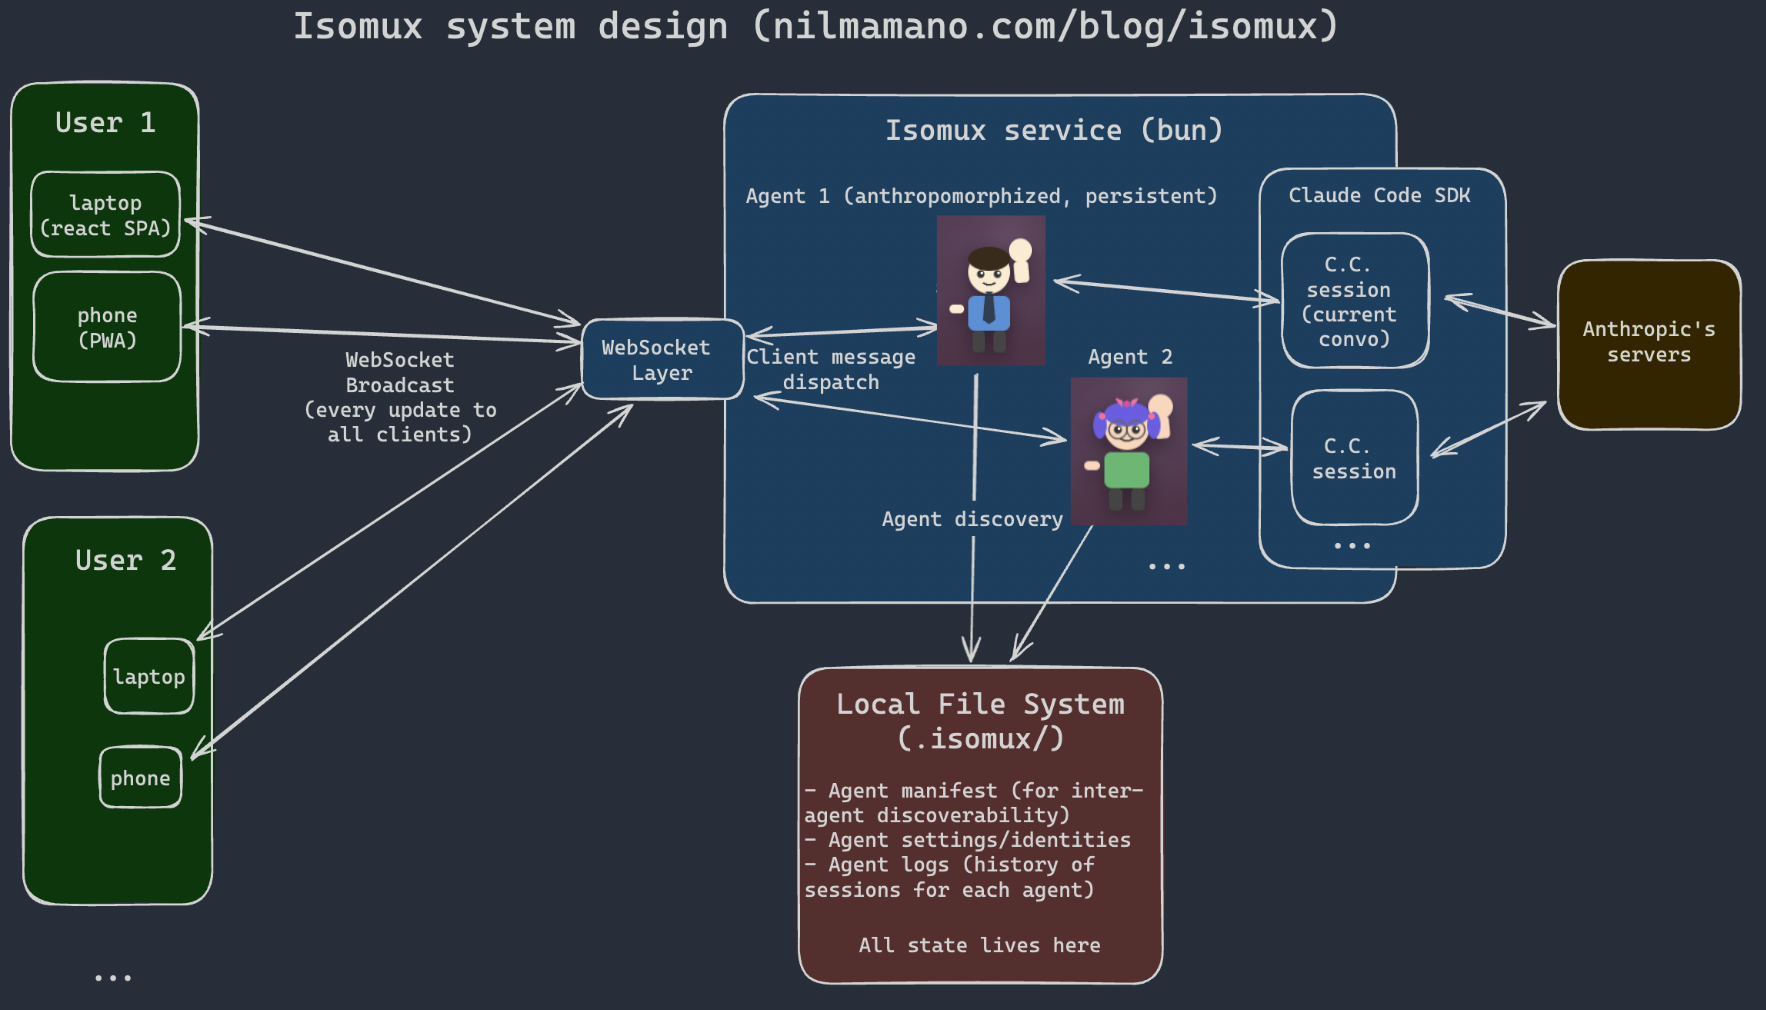
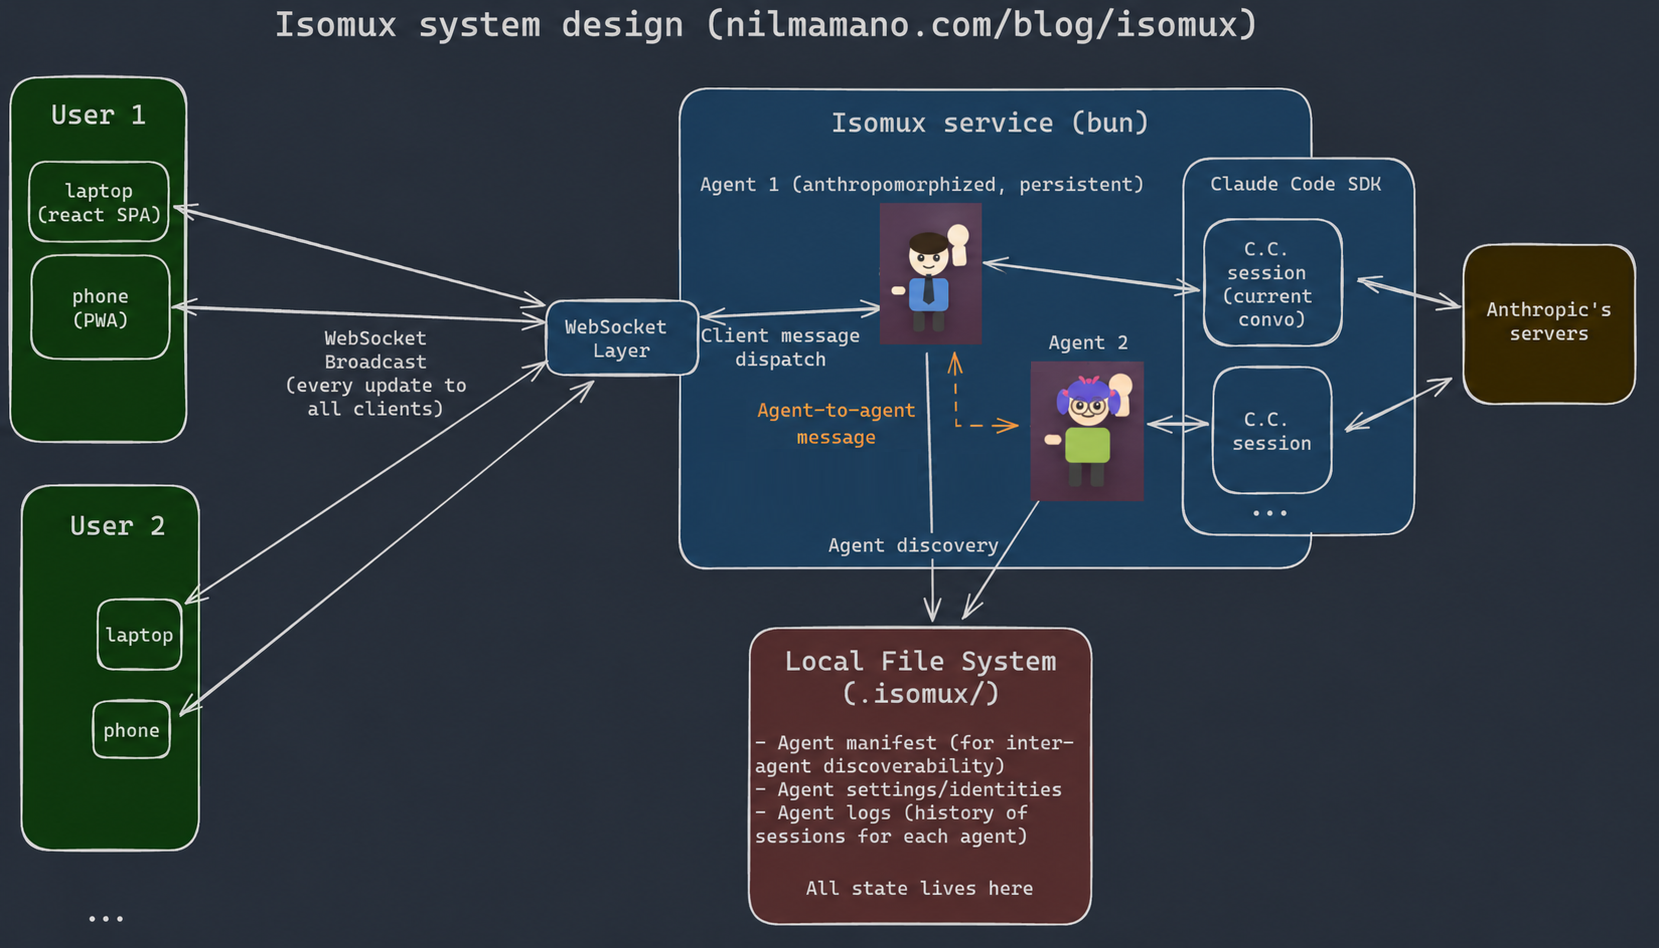
Update architecture diagram, simplify HTTPS Tailscale copy
The architecture diagram now shows agent-to-agent messages, replacing
the previous version on both site/architecture.png and the matching
blog asset.

Trim the HTTPS Features paragraph in the landing page to one short line
about --bg persistence and the URL to visit, and update the in-app
mic-permission hint card to drop the stale "Restart isomux" instruction
(carried over from the removed HTTP-to-HTTPS redirect logic in
6b17e21). The card now just points at the HTTPS URL Tailscale prints.

diff --git a/site/index.html b/site/index.html
@@ -302,8 +302,8 @@
       transition: transform 0.15s;
     }
 
-    .section-collapse[open] summary h2::before,
-    .section-collapse[open] summary h3::before {
+    .section-collapse[open] > summary h2::before,
+    .section-collapse[open] > summary h3::before {
       transform: rotate(90deg);
     }
 
@@ -720,7 +720,7 @@ bun run dev</pre>
       <summary><h2 style="display: inline;">Self-hosted Server Setup <em style="font-weight: 400; font-size: 0.85em; color: var(--text-dim);">(Mac Mini style)</em></h2></summary>
     <div class="setup-card">
       <p>Isomux shines when you run it on your own always-on box/server (like a Mac Mini), and then access it from all your devices.</p>
-      <p style="margin-top: 12px;">Your phone and laptop see the same conversations, in real time, with UIs optimized for each. Agents keep running even if you close the browser.</p>
+      <p style="margin-top: 12px;">Same office for all your devices. Agents keep running even if you close the browser.</p>
       <p style="margin-top: 12px;">The easiest way is to use <a href="https://tailscale.com/" target="_blank" rel="noopener"><strong>Tailscale</strong></a> (free, zero-config): your server serves Isomux on <code style="background: var(--bg); padding: 1px 6px; border-radius: 4px; font-size: 0.85em;">localhost:4000</code>, and every other device reaches it at <code style="background: var(--bg); padding: 1px 6px; border-radius: 4px; font-size: 0.85em;">&lt;TAILSCALE_SERVER_IP&gt;:4000</code>.</p>
       <h3>1. Install Tailscale</h3>
       <p>Install Tailscale on the server, your laptop, and your phone.</p>
@@ -761,7 +761,7 @@ lingering so it survives logout.</pre>
         <h4>3. Start the HTTPS proxy</h4>
         <p>Run this on the server (you can use the built-in terminal in Isomux):</p>
 <pre>tailscale serve --bg http://localhost:4000</pre>
-        <p style="margin-top: 8px; color: var(--text-dim); font-size: 0.85rem;">This tells Tailscale to proxy HTTPS traffic to your local Isomux server with a valid certificate. The <code style="background: var(--bg); padding: 1px 6px; border-radius: 4px; font-size: 0.85em;">--bg</code> flag makes it persist across reboots. Next time you visit <code style="background: var(--bg); padding: 1px 6px; border-radius: 4px; font-size: 0.85em;">http://my-mac-mini:4000</code>, Isomux will auto-redirect to HTTPS and both voice input and PWA install will be available.</p>
+        <p style="margin-top: 8px; color: var(--text-dim); font-size: 0.85rem;"><code style="background: var(--bg); padding: 1px 6px; border-radius: 4px; font-size: 0.85em;">--bg</code> persists the proxy across reboots. Visit the HTTPS URL it prints (e.g. <code style="background: var(--bg); padding: 1px 6px; border-radius: 4px; font-size: 0.85em;">https://my-mac-mini.&lt;tailnet&gt;.ts.net</code>) for voice input and PWA install.</p>
       </details>
     </div>
     </details>

diff --git a/ui/log-view/LogView.tsx b/ui/log-view/LogView.tsx
@@ -1629,7 +1629,7 @@ export function LogView({
                     {`sudo tailscale set --operator=$USER\ntailscale serve --bg http://localhost:4000`}
                   </code>
                   <div style={{ marginTop: 8, lineHeight: 1.5, color: "var(--text-muted)" }}>
-                    Restart isomux and reload this page. You'll be auto-redirected to HTTPS.
+                    Visit the HTTPS URL Tailscale prints (e.g. <code style={{ background: "var(--bg-base)", padding: "1px 5px", borderRadius: 3, fontFamily: "'JetBrains Mono',monospace", fontSize: 11 }}>https://my-mac-mini.&lt;tailnet&gt;.ts.net</code>).
                   </div>
                   <button
                     onClick={() => setShowMicHint(false)}
